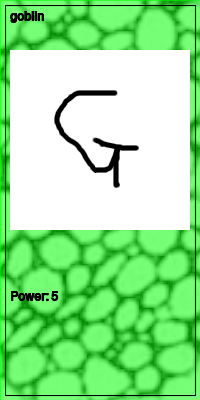
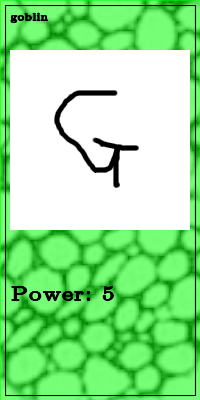
Add support for point sizes

Changed region(s): [[0.03, 0.69, 0.45, 0.75], [0.03, 0.03, 0.24, 0.06], [0.51, 0.69, 0.57, 0.75]]

diff --git a/src/canvas.cpp b/src/canvas.cpp
@@ -76,13 +76,15 @@ void Canvas::rectangle (bool fill, int x, int y, int width, int height, int thic
     }
 }
 
-void Canvas::text (std::string text, std::string font, int x, int y, std::string colour) {
+void Canvas::text (std::string text, std::string font, double size, int x, int y,
+                   std::string colour) {
     if (!check_init ("TEXT")) return;
     l->inf () << "Drawing text: " << text << std::endl;
     try {
         Color                 c (colour);
         std::vector<Drawable> draw_list;
         draw_list.push_back (DrawableFont (font));
+        draw_list.push_back (DrawablePointSize (size));
         draw_list.push_back (DrawableText (x, y, text));
         draw_list.push_back (DrawableStrokeColor (c));
         canvas.draw (draw_list);

diff --git a/src/function_call.cpp b/src/function_call.cpp
@@ -50,12 +50,12 @@ Value Function_Call::evaluate () {
                              p[6]->evaluate ().s ());
         break;
     case FUNC_TEXT:
-        if (p.size () < 5) {
-            l->err () << "TEXT function requires 5 arguments. Have " << p.size () << std::endl;
+        if (p.size () < 6) {
+            l->err () << "TEXT function requires 6 arguments. Have " << p.size () << std::endl;
             break;
         }
         e->canvas.text (p[0]->evaluate ().s (), p[1]->evaluate ().s (), p[2]->evaluate ().d (),
-                        p[3]->evaluate ().d (), p[4]->evaluate ().s ());
+                        p[3]->evaluate ().d (), p[4]->evaluate ().d (), p[5]->evaluate ().s ());
         break;
     case FUNC_IMAGE:
         if (p.size () < 5) {

diff --git a/include/canvas.h b/include/canvas.h
@@ -23,7 +23,7 @@ class Canvas {
     void save_card (std::string filename);
     void rectangle (bool fill, int x, int y, int width, int height, int thickness,
                     std::string colour);
-    void text (std::string text, std::string font, int x, int y, std::string colour);
+    void text (std::string text, std::string font, double size, int x, int y, std::string colour);
     void image (std::string filename, int x, int y, int width, int height);
     void line (int x1, int y1, int x2, int y2, int thickness, std::string colour);
     ~Canvas ();

diff --git a/README.md b/README.md
@@ -53,7 +53,7 @@ Saves the canvas to the file specified. File type is inferred from extension. Al
 
 Draws a rectangle at (x, y) of size width x height. If fill is true, it will be filled, otherwise just an outline. Thickness is the thickness of the lines.
 
-### text ( text, font, x, y, colour)
+### text ( text, font, pointsize, x, y, colour)
 
 Draws text at (x, y). Font the path of a font file. If font is left as `""` you'll get the default system font.
 
@@ -88,13 +88,14 @@ and we run `params stats.csv`, we get three files:
 We can write a script `make_monsters.qd`:
 
 ```
-new(200,400);                                                                                                                       
+font="/usr/share/texmf/fonts/opentype/public/lm/lmroman5-regular.otf";
+new(200,400);
 image("/home/sam/pictures/background.png", 0, 0, 200, 400);
 rect(true, 0, 0, 200, 400, 1, backgroundColour+"88");
 rect(false, 5, 5, 190, 390, 1, "#000000");
-text(title, "", 10, 20, "#000000");
+text(title, font, 10, 10, 20, "#000000");
 image("/home/sam/pictures/"+title+".png", 10, 50, 180, 180);
-text("Power: "+power, "", 10, 300, "#000000");
+text("Power: "+power, font, 20, 10, 300, "#000000");
 save(title + ".png");
 ```
 
